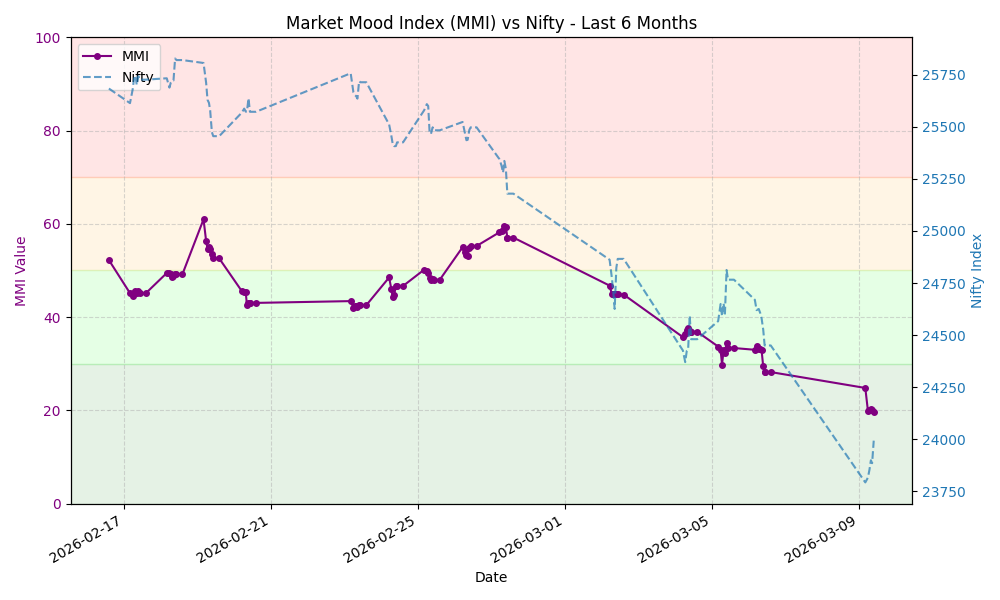
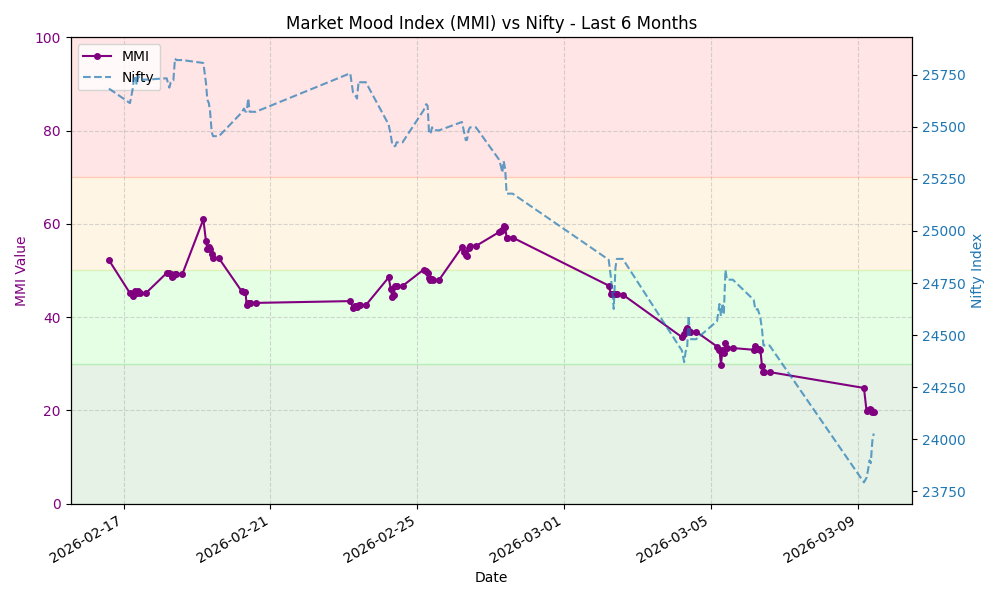
Update MMI data and chart

diff --git a/README.md b/README.md
@@ -7,8 +7,8 @@ This repository automatically fetches the MMI value, stores the history, and gen
 
 ## Latest MMI Value
 
-**19.62** - **Extreme Fear**
-<small>Last Updated: 2026-03-09 09:33 UTC</small>
+**19.72** - **Extreme Fear**
+<small>Last Updated: 2026-03-09 10:27 UTC</small>
 
 ## MMI Trend (Last 30 Days)
 
